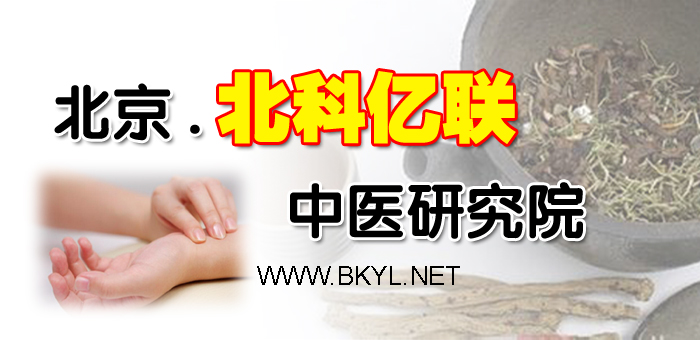
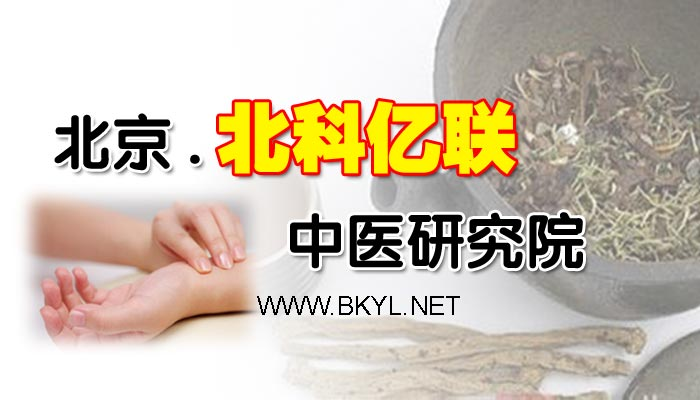
修改首页slider高度

diff --git a/Web/Home/View/Vote/detail.html b/Web/Home/View/Vote/detail.html
@@ -1,0 +1,33 @@
+<!DOCTYPE HTML PUBLIC "-//W3C//DTD HTML 4.01//EN" "http://www.w3.org/TR/html4/strict.dtd">
+<html lang="zh-cn" style="height:100%">
+<head>
+	<include file="./Public/common_tpl/head.html" />
+	<style type="text/css">
+	li {
+		float:left;
+		width:250px;
+
+	}
+	</style>
+</head>
+<body style="height:auto; min-height:100%; position:relative">
+	<div class="container" style="position:relative">
+		<img src="__PUBLIC__/img/vote_back.png" style="">
+		<h1 style="top:150px; left:110px; font-size:40px; position:absolute; color:#405010">华药杯“燕赵好乡医”评比活动</h1>
+		<div class="clearfix" style="margin-top:10px">
+			<form style="float:right; margin-right:4px">
+				<input placeholder="请输入姓名或编号" style="height:25px; padding:0px 10px; outline:none; border:1px solid #2b6bab"><button style="height:27px; width:45px; color:#fff; background:#2b6bab; margin:0; outline:none; border:none">搜索</button>
+			</form>
+		</div>
+
+	</div>
+
+	<div class="footer" style="position:absolute; bottom:0px; margin-top:20px; padding: 15px 0; background-color:#2f70b1; width:100%">
+	<div class="container">
+		<p style="font-family:tahoma, arial, 宋体; font-size:12px; text-align:center; line-height:20px; color:#fff">北京市公安局朝阳分局备案编号110105014669&nbsp;&nbsp;&nbsp;客服电话 400－654－0158（免费）</p>
+		<p style="font-family:tahoma, arial, 宋体; font-size:12px; text-align:center; line-height:20px; color:#fff">本站信息仅供参考 不能作为诊断及医疗的依据</p>
+		<p style="font-family:tahoma, arial, 宋体; font-size:12px; text-align:center; line-height:20px; color:#fff">&copy;CopyRight 2015 bkyl.net All Rights Reserved. 北科亿联中医研究院 版权所有</p>
+	</div>
+</div>
+</body>
+</html>

diff --git a/Public/css/style.css b/Public/css/style.css
@@ -23,7 +23,7 @@ h6{font-size:16px;}
 .nav-bar li{float:left; width:111px; text-align:center;}
 .nav-bar li:hover{background:#255c94;}
 .nav-bar li a{line-height:40px; color:#fff; font-size:16px; font-family:'Microsoft YaHei';}
-.slider{width:700px; height:340px; overflow:hidden; position:relative;}
+.slider{width:700px; height:400px; overflow:hidden; position:relative;}
 .slider .num{position:absolute; right:5px; bottom:5px; z-index:1000;}
 .slider .num li{float:left; color:#ff7300; text-align:center; line-height:16px; width:16px; height:16px; cursor:pointer; overflow:hidden; margin:3px 1px; border:1px solid #ff7300; background-color:#fff;}
 .slider .num li.on{color:#fff; line-height:21px; width:21px; height:21px; font-size:16px; margin:0 1px; border:0; background-color:#ff3000; font-weight:bold;}

diff --git a/Web/Home/View/Vote/listing.html b/Web/Home/View/Vote/listing.html
@@ -28,7 +28,7 @@
 					<p style="text-align:center;">
 						<!-- <button style="width:70px; height:25px; background:#fff; border:none">投票</button> -->
 						<button style="width:70px; height:25px;">投票</button>
-						<button style="width:70px; height:25px;">详情</button>
+						<a href="{:U('Vote/detail')}"><button style="width:70px; height:25px;">详情</button></a>
 					</p>
 				</div>
 			</li>

diff --git a/Web/Home/Controller/VoteController.class.php b/Web/Home/Controller/VoteController.class.php
@@ -8,6 +8,10 @@ class VoteController extends CommonController {
     }
 
     public function listing() {
-       $this->display();
+    	$this->display();
+    }
+
+    public function detail() {
+    	$this->display();
     }
 }
